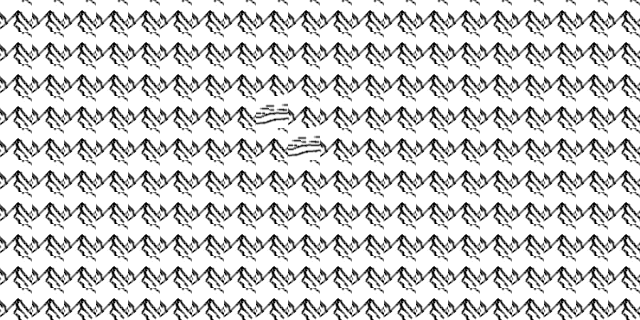
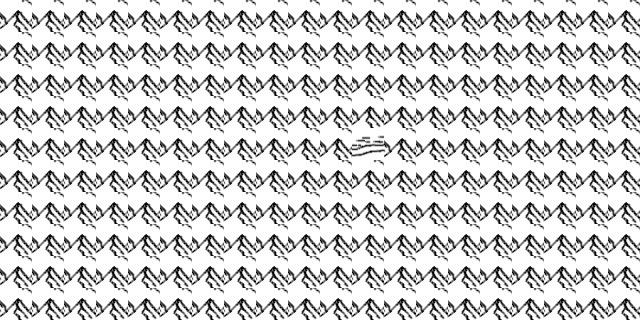
drag behaviour beta

Changed region(s): [[0.5312, 0.4062, 0.625, 0.5], [0.375, 0.3125, 0.4688, 0.4062], [0.4375, 0.4062, 0.5, 0.5]]

diff --git a/deps/ui.py b/deps/ui.py
@@ -107,18 +107,17 @@ def create_popup(key:list[str, bool], message:str, width=0.8, height=0.8, bg_col
         height = l
     else:
         width, height = min(width * w, max_width), min(height * l, max_height)
-    
-    c = abs(width - w)//2, abs(height - l)//2
-    if type(states[key[0]]) == tuple:
-            c = [c[0] + states[key[0]][0], c[1] + states[key[0]][1]]
 
-    # cadre fenetre
-    # fltk.rectangle(c[0], c[1], c[0]+width, c[1]+height, remplissage='yellow', epaisseur=0, tag=key[0])
-
-    # Border radius
     toolbar_color = '#3c3c3c'
     r =  min(min(height*.1, width*.1), 40)
     rc = r // 2
+    
+    c = abs(width - w)//2, abs(height - l)//2
+    if type(states[key[0]]) == tuple:
+            c = [min(w - width, max(c[0] + states[key[0]][0], 0)), min(l - r,max(c[1] + states[key[0]][1], 0))]
+
+    # cadre fenetre
+    # fltk.rectangle(c[0], c[1], c[0]+width, c[1]+height, remplissage='yellow', epaisseur=0, tag=key[0])
 
     def corner(x,y, v, color=bg_color):
         if states[key[0]] == 2:

diff --git a/moteur.py b/moteur.py
@@ -88,7 +88,6 @@ def mainloop():
             if dragging:
                 x, y = fltk.abscisse_souris(), fltk.ordonnee_souris()
                 if last_x != None:
-                    print(last_x - x, last_y - y)
                     ui.set_coords(dragged_object, x - last_x, y - last_y)
                     erase_popup(dragged_object)
                     tile_picker()
@@ -107,13 +106,12 @@ def mainloop():
                 last_x, last_y = None, None
             for tag in clicked:
                 keys = tag.split('_')
-                print(clicked)
+
                 if keys[0] == 'drag' and f'expand_{keys[1]}' not in clicked and f'close_{keys[1]}' not in clicked:
                     if not dragging:
                         dragging = True
                         dragged_object = keys[1]
                         last_x, last_y = x, y
-                        print('start drag')
                 if keys[0] == 'close':
                     ui.change_state(keys[1])
                 if keys[0] == 'expand':
